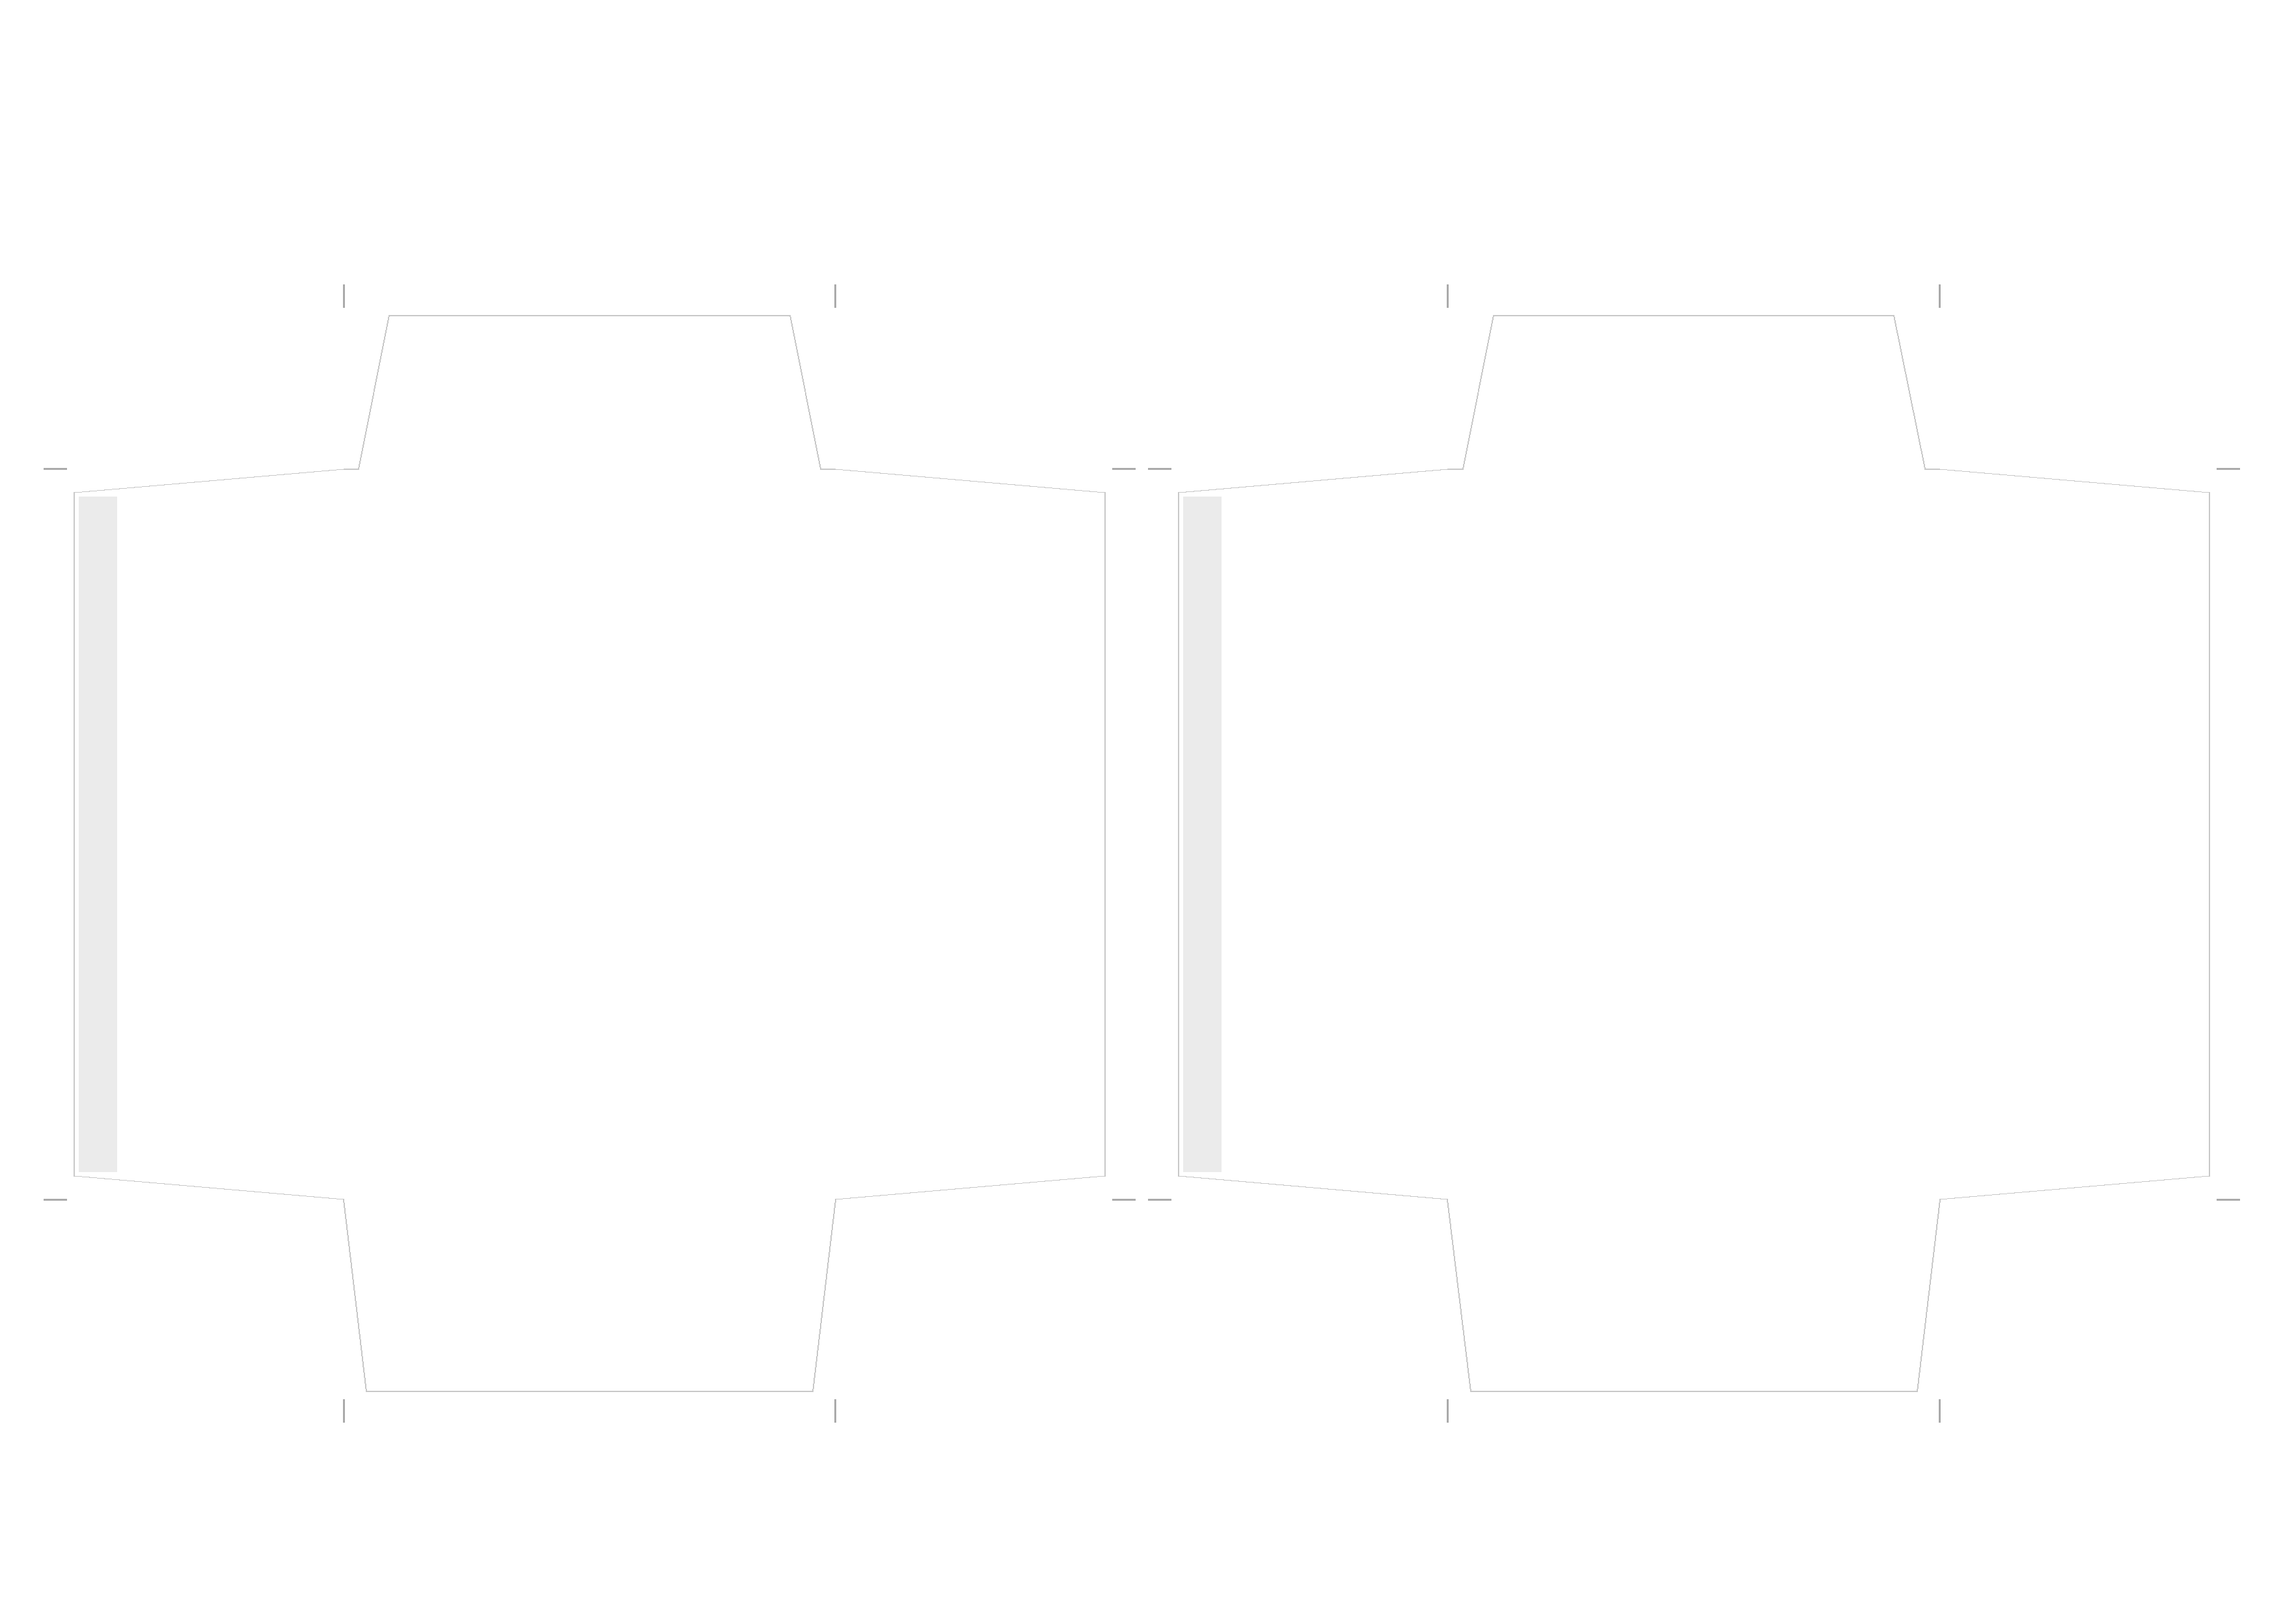
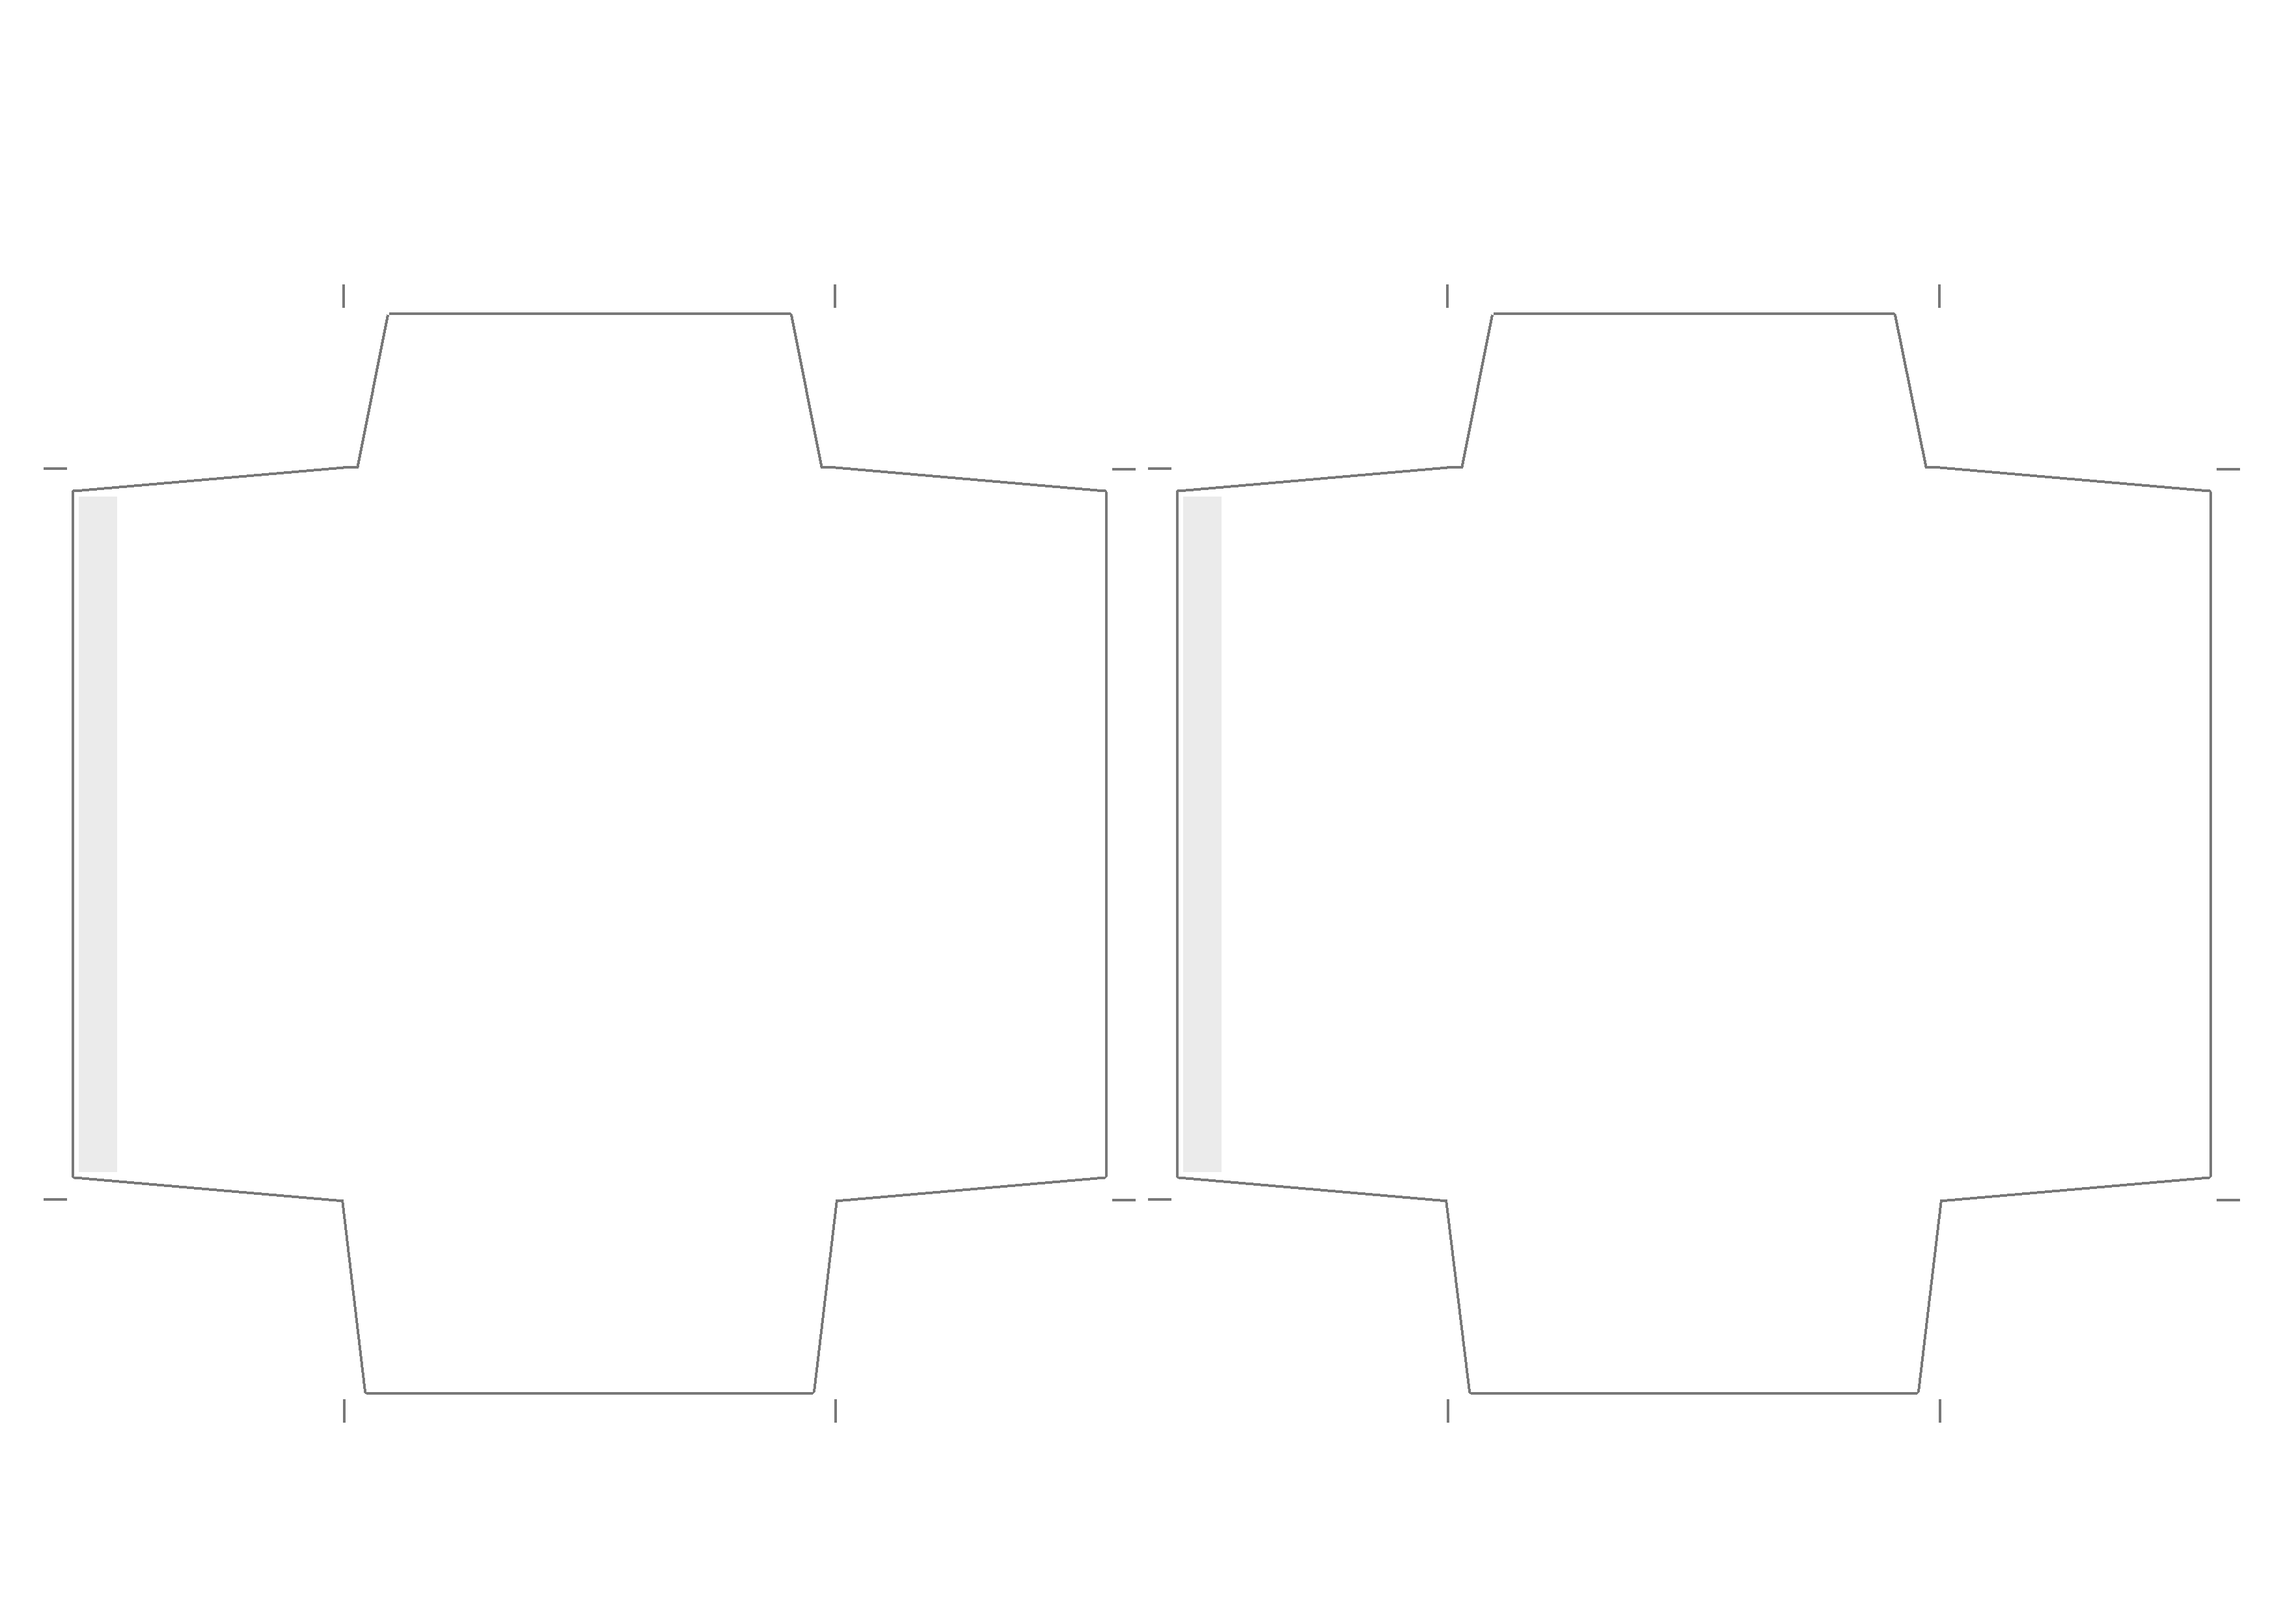
Darken cut line and draw it outside the net only
Claude-Session: https://claude.ai/code/session_01QWjhnwkGtLBYh5aBhsN5Vu

Changed region(s): [[0.1554, 0.8383, 0.1864, 0.8694]]

diff --git a/templates/pochi/make_pochi_template.py b/templates/pochi/make_pochi_template.py
@@ -5,7 +5,7 @@
   pochi_lines_A4.png  印刷用の線だけ(背景透明、300dpi)
   pochi_guide_A4.pdf  試し刷り用の案内つきの型(実寸)
   pochi_print_A4.png  売るデータ用。組み立てたあと線が目立たない版(背景透明、300dpi)
-                      ・切り線はごく薄い細線
+                      ・切り線ははっきりした灰色。型の外側だけに引くので、線の上を切れば袋に線が残らない
                       ・折り線は袋の上に引かず、型の外側に短い目印だけ
                       ・のりしろの印は、組み立てると②の下に隠れる①の端だけ
 """
@@ -176,16 +176,21 @@ def draw_print_png():
     """組み立てたときに線が目立たない、売るデータ用の版。"""
     img = Image.new("RGBA", (p(PAGE_W), p(PAGE_H)), (255, 255, 255, 0))
     d = ImageDraw.Draw(img)
-    cut = (200, 200, 200, 255)   # ごく薄いグレー
-    mark = (170, 170, 170, 255)
+    cut = (120, 120, 120, 255)   # 切り線: 印刷してはっきり見える灰色(薄すぎて切る場所が分からなかったため濃くした)
+    mark = (120, 120, 120, 255)
     for ox, oy in nets():
         fx0, fx1 = ox + FLAP, ox + FLAP + FRONT_W
         fy0, fy1 = oy + TOP, oy + TOP + FRONT_H
         # のりしろ(①の外側の端)。②を貼ると下に隠れるので、印刷しても見えない
         d.rectangle([p(ox + 0.6), p(fy0 + 3.6), p(ox + 5.5), p(fy1 - 3.6)], fill=(235, 235, 235, 255))
-        # 切り線: ごく薄く細い線
-        pts = outline(ox, oy)
-        d.line([(p(x), p(y)) for x, y in pts] + [(p(pts[0][0]), p(pts[0][1]))], fill=cut, width=2)
+        # 切り線: 型の外側だけに引く。線の上を切れば、袋には線が残らない
+        pts = [(p(x), p(y)) for x, y in outline(ox, oy)]
+        layer = Image.new("RGBA", img.size, (0, 0, 0, 0))
+        ImageDraw.Draw(layer).line(pts + [pts[0]], fill=cut, width=p(0.8), joint="curve")
+        inside = Image.new("L", img.size, 0)
+        ImageDraw.Draw(inside).polygon(pts, fill=255)
+        layer.putalpha(Image.composite(Image.new("L", img.size, 0), layer.getchannel("A"), inside))
+        img.alpha_composite(layer)
         # 折り線の目印: 型の外側に短い線だけ(袋の上には線を引かない)
         L = 3.0
         ticks = [
@@ -195,7 +200,7 @@ def draw_print_png():
             ((ox - 1, fy1), (ox - 1 - L, fy1)), ((ox + NET_W + 1, fy1), (ox + NET_W + 1 + L, fy1)),
         ]
         for a, b in ticks:
-            d.line([(p(a[0]), p(a[1])), (p(b[0]), p(b[1]))], fill=mark, width=3)
+            d.line([(p(a[0]), p(a[1])), (p(b[0]), p(b[1]))], fill=mark, width=p(0.3))
     return img
 
 

diff --git a/templates/pochi/README.md b/templates/pochi/README.md
@@ -3,7 +3,7 @@
 | ファイル | 使い道 |
 |---|---|
 | `pochi_guide_A4.png` | Canvaで下敷きにする型。切る線・折る線・のりしろに加え、青い「文字の範囲」「絵を置く範囲」の目安が入っている |
-| `pochi_print_A4.png` | **売るデータに入れる版(推奨)。** 組み立てたあと線が目立たない。切る線はごく薄く細く、折る線は袋の上に引かずに型の外側の短い目印だけ。のりしろの印は、組み立てると②の下に隠れる①の端だけ(③には付けない。③は袋のうしろに見えるため) |
+| `pochi_print_A4.png` | **売るデータに入れる版(推奨)。** 組み立てたあと線が目立たない。切る線ははっきりした灰色で、型の外側だけに引いてある(線の上を切れば袋に線が残らない)。折る線は袋の上に引かずに型の外側の短い目印だけ。のりしろの印は、組み立てると②の下に隠れる①の端だけ(③には付けない。③は袋のうしろに見えるため) |
 | `pochi_lines_A4.png` | 前の版。折る線が点線で袋の上に入るので、組み立てると線が見える。使わない |
 | `pochi_guide_A4.pdf` | 自分で試し刷りして、組み立てを確かめるための実寸の型 |
 | `make_pochi_template.py` | 型を作り直すときのスクリプト(寸法を変えたいとき用) |
@@ -75,3 +75,4 @@
 - 貼るのはスティックのりか両面テープ。液体のりは、インクジェットの印刷が水分でにじむことがある。説明書と出品文にも書いた。
 - ふた④は、袋の口に差し込んで閉じる。マーメイド紙など厚い紙で試したところ、元の型(ふたの付け根が袋と同じ幅64mm)では強く押し込む必要があり、しわが付いた。→ ふたの付け根を左右2mmずつ(60mm)、先を左右6mmずつ(52mm)細くした(`LID_IN`、`LID_TIP`)。
 - **型を変えたので、Canvaで作ったデータは、下敷きを新しい `pochi_print_A4.png` に差し替えて書き出し直す。**
+- 切る線が薄すぎて、印刷すると切る場所が分からなかった(試作で確認)。→ 灰色を濃くし(120,120,120)、太さ約0.4mmで型の外側だけに引くようにした。折る位置の目印も同じ濃さにした。
